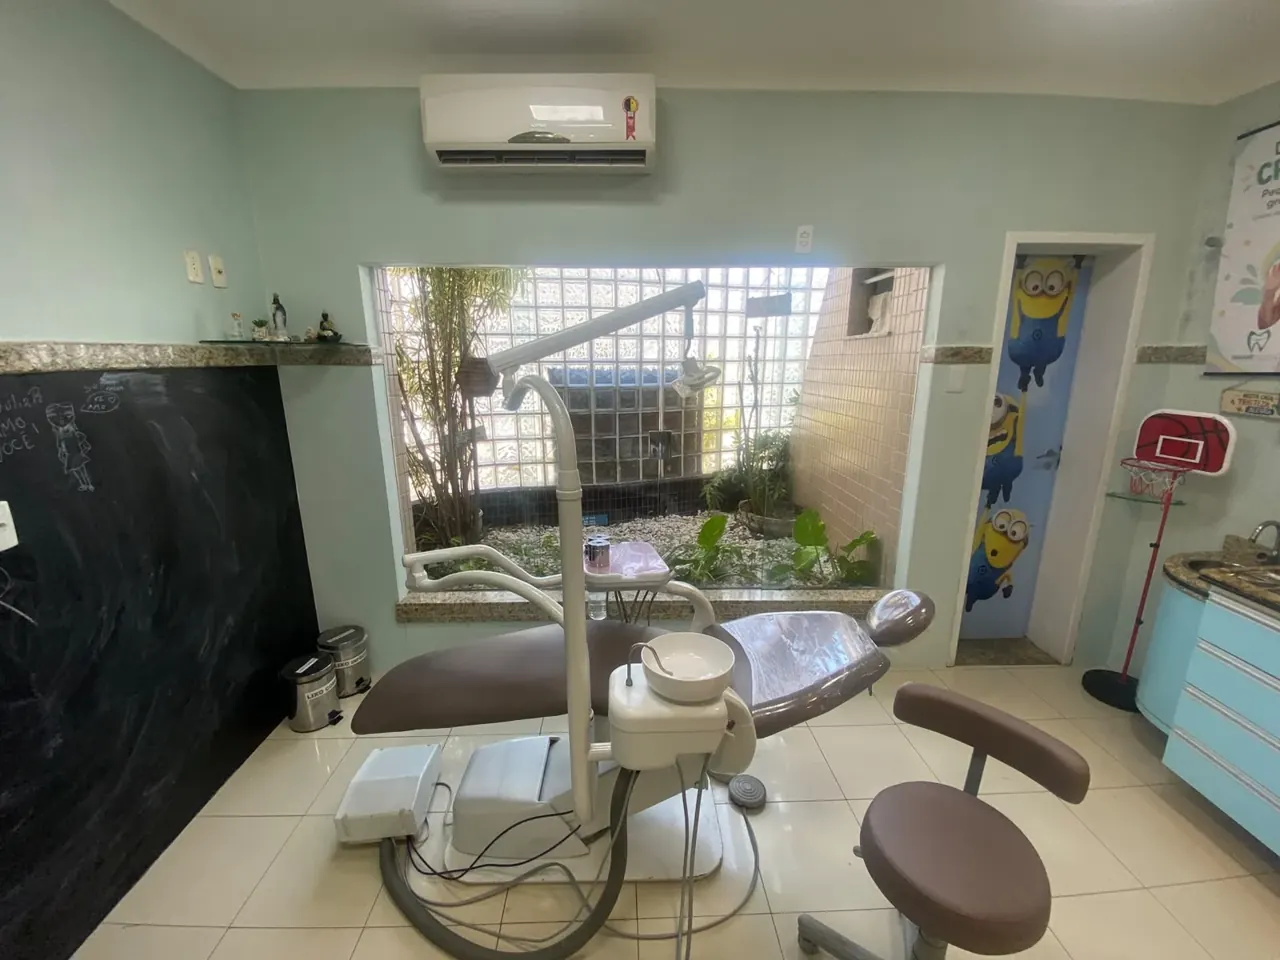
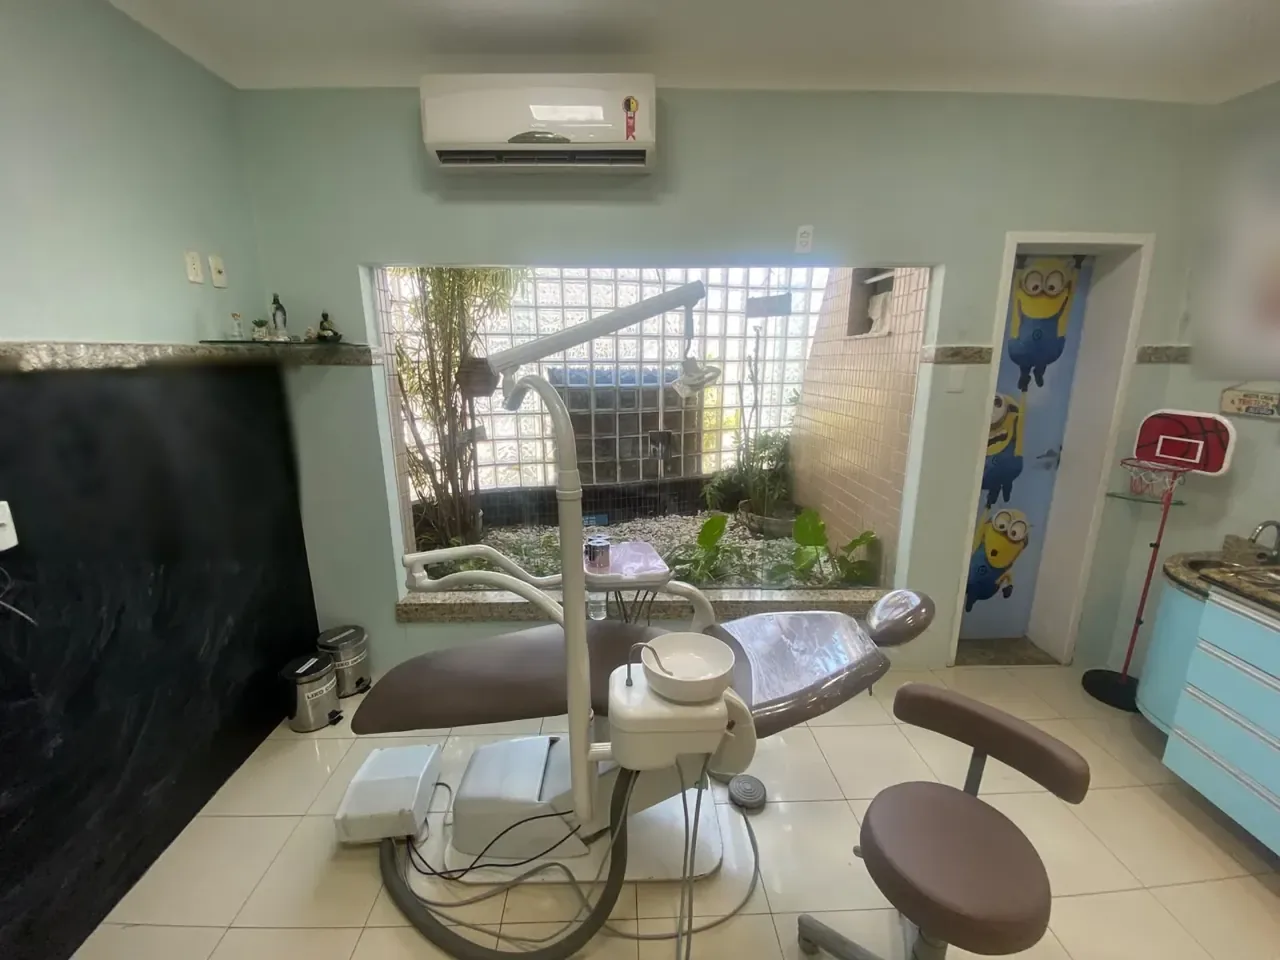
Desfoca nomes da lousa, cartazes e calendário nas fotos do consultório
Claude-Session: https://claude.ai/code/session_01PeymD3iYMRQ7fBLq6GW3z7

diff --git a/README.md b/README.md
@@ -150,7 +150,7 @@ A lista completa também aparece na própria página, em amarelo.
 **Para a agência**
 - [ ] Perfil do Google, Facebook e diretórios atualizados com o endereço e os convênios atuais, junto com o lançamento
 - [ ] Combinar com o gestor de tráfego a lista de permissão das tags e os códigos `?t=` dos topos por campanha
-- [ ] Nas fotos do consultório há um cartaz de parede ("Dia das Crianças") cujo texto não deu para ler: conferir que não traz preço, desconto ou condição comercial antes de publicar
+- [ ] Nas fotos do site, os nomes escritos na lousa, os cartazes de "Dia das Crianças" e um calendário de mesa foram desfocados. Nas fotos novas, pedir os ambientes sem esses itens e confirmar que a pessoa do pôster rosa acima da lousa é a própria Dra. Nayane
 - [ ] As fotos do site foram reduzidas para até 1280 px (a cópia na pasta do Drive é ainda menor): pedir as originais em boa resolução para o lançamento
 
 ---
